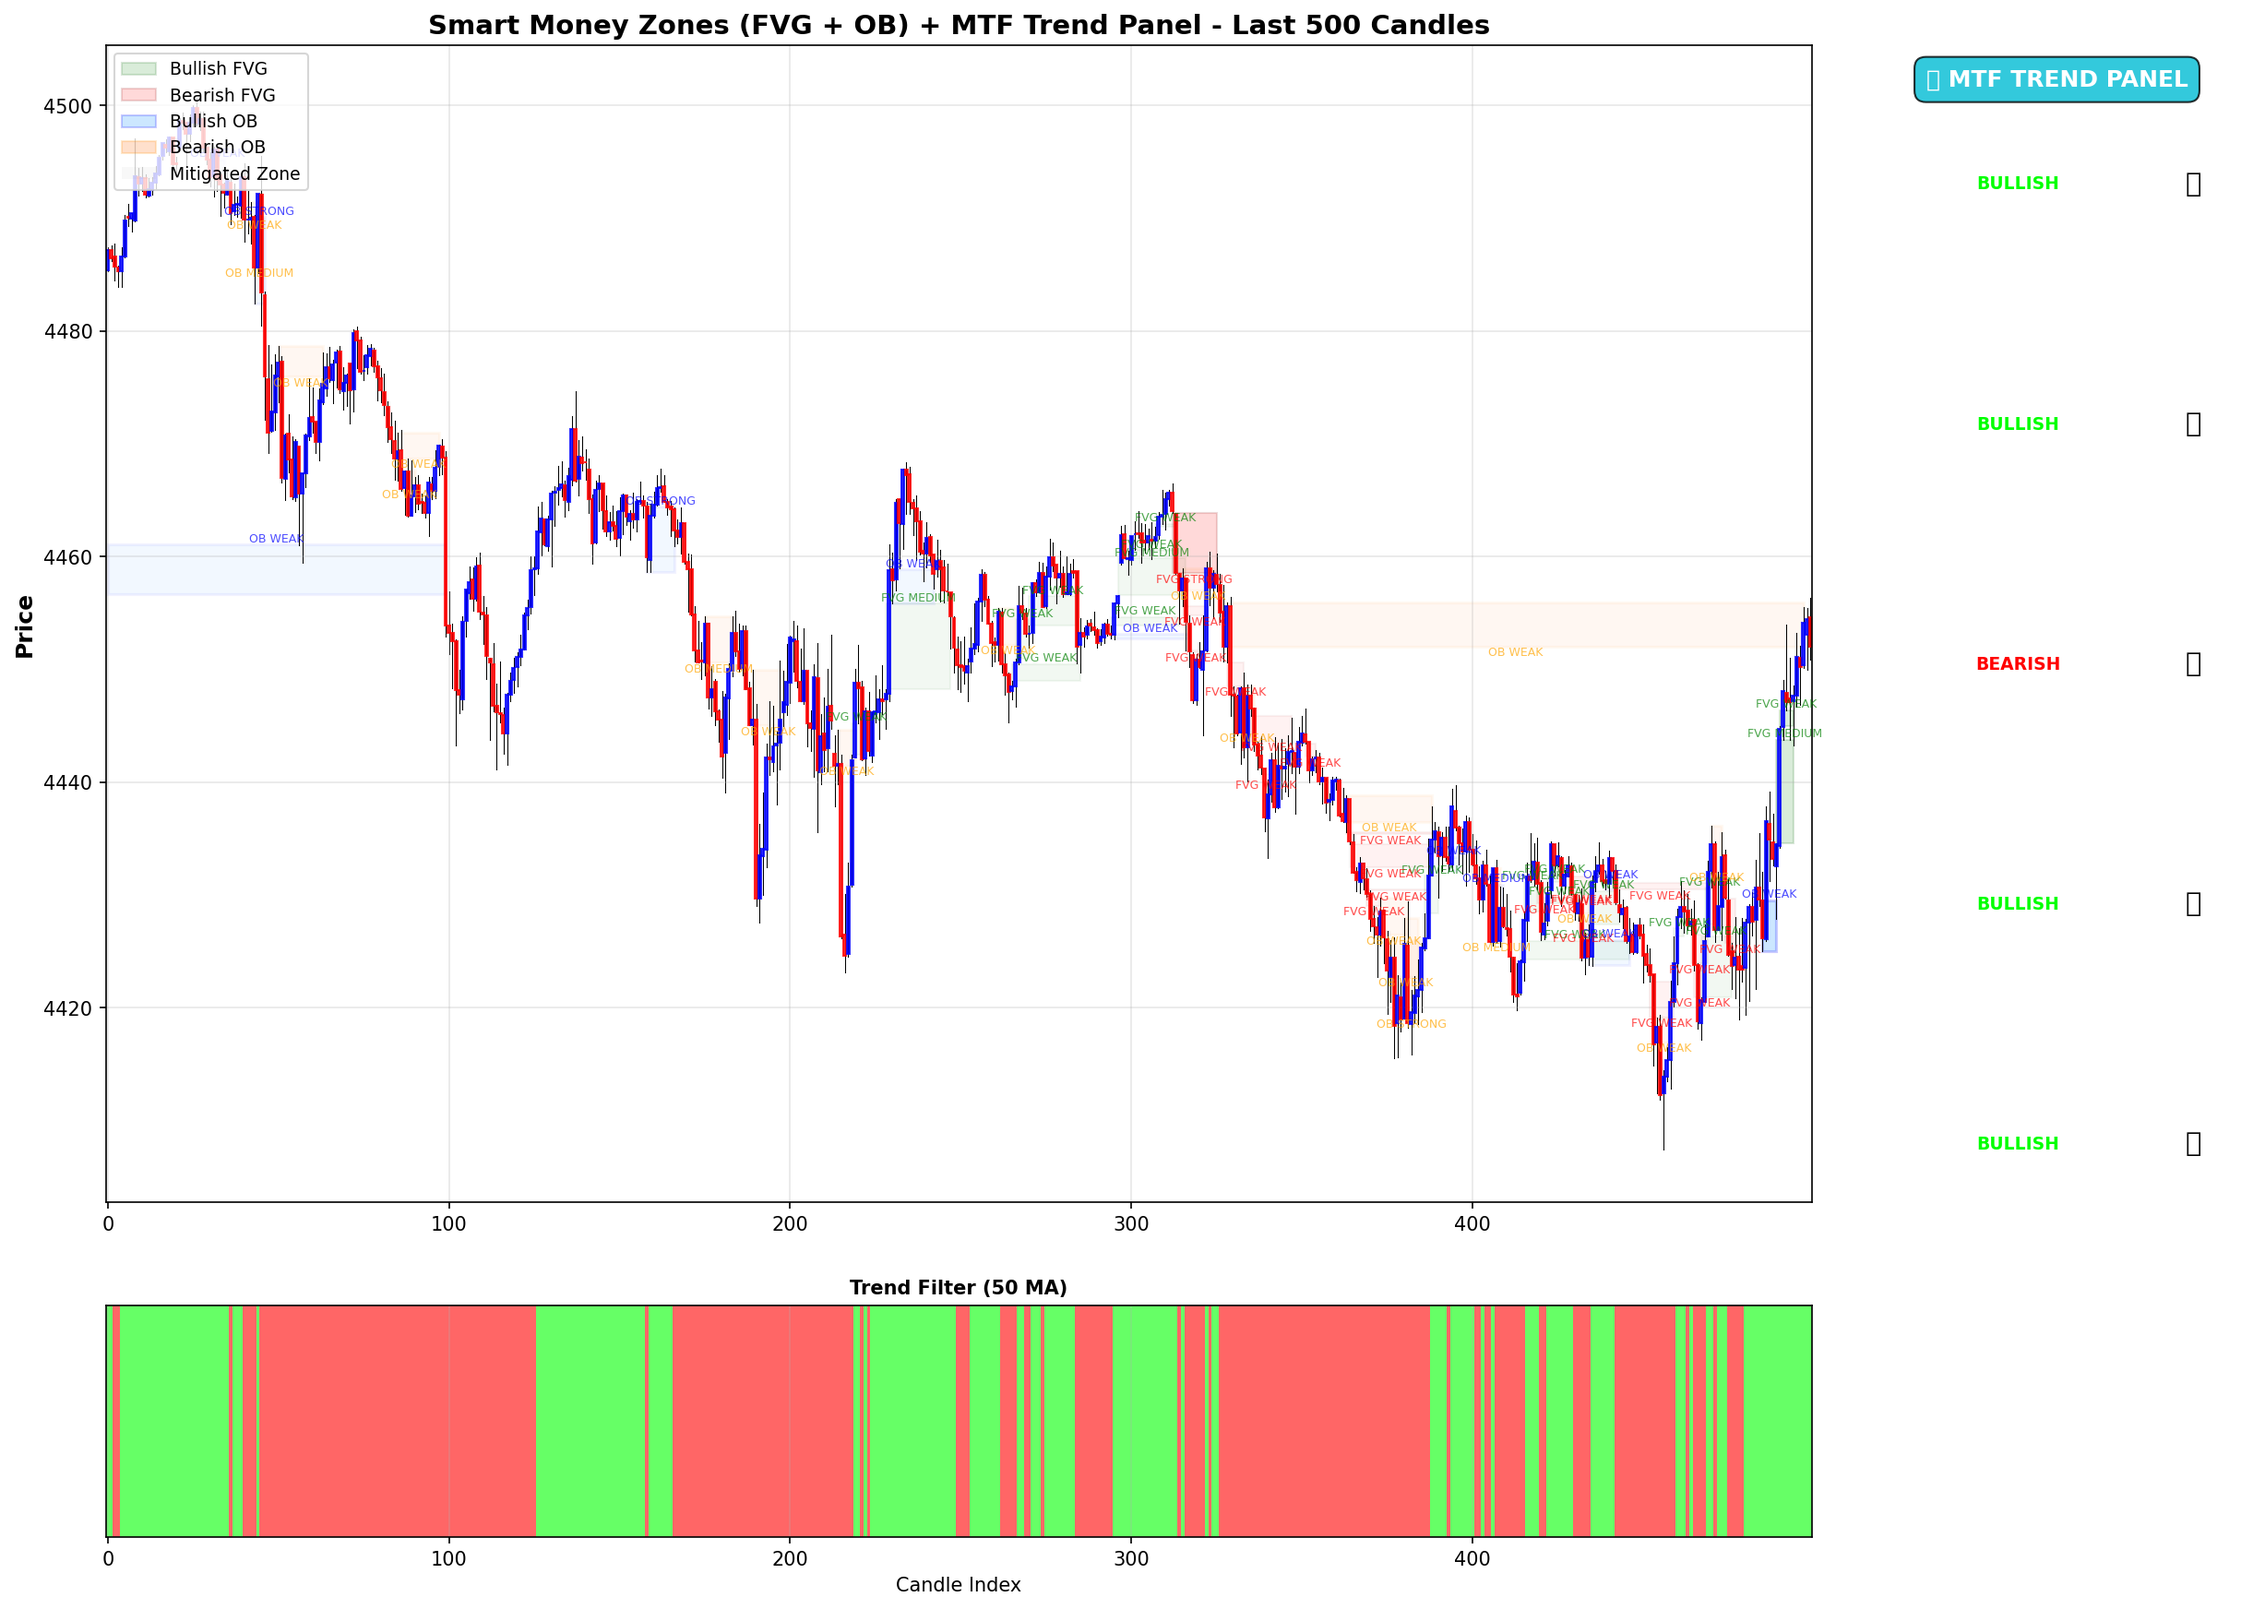
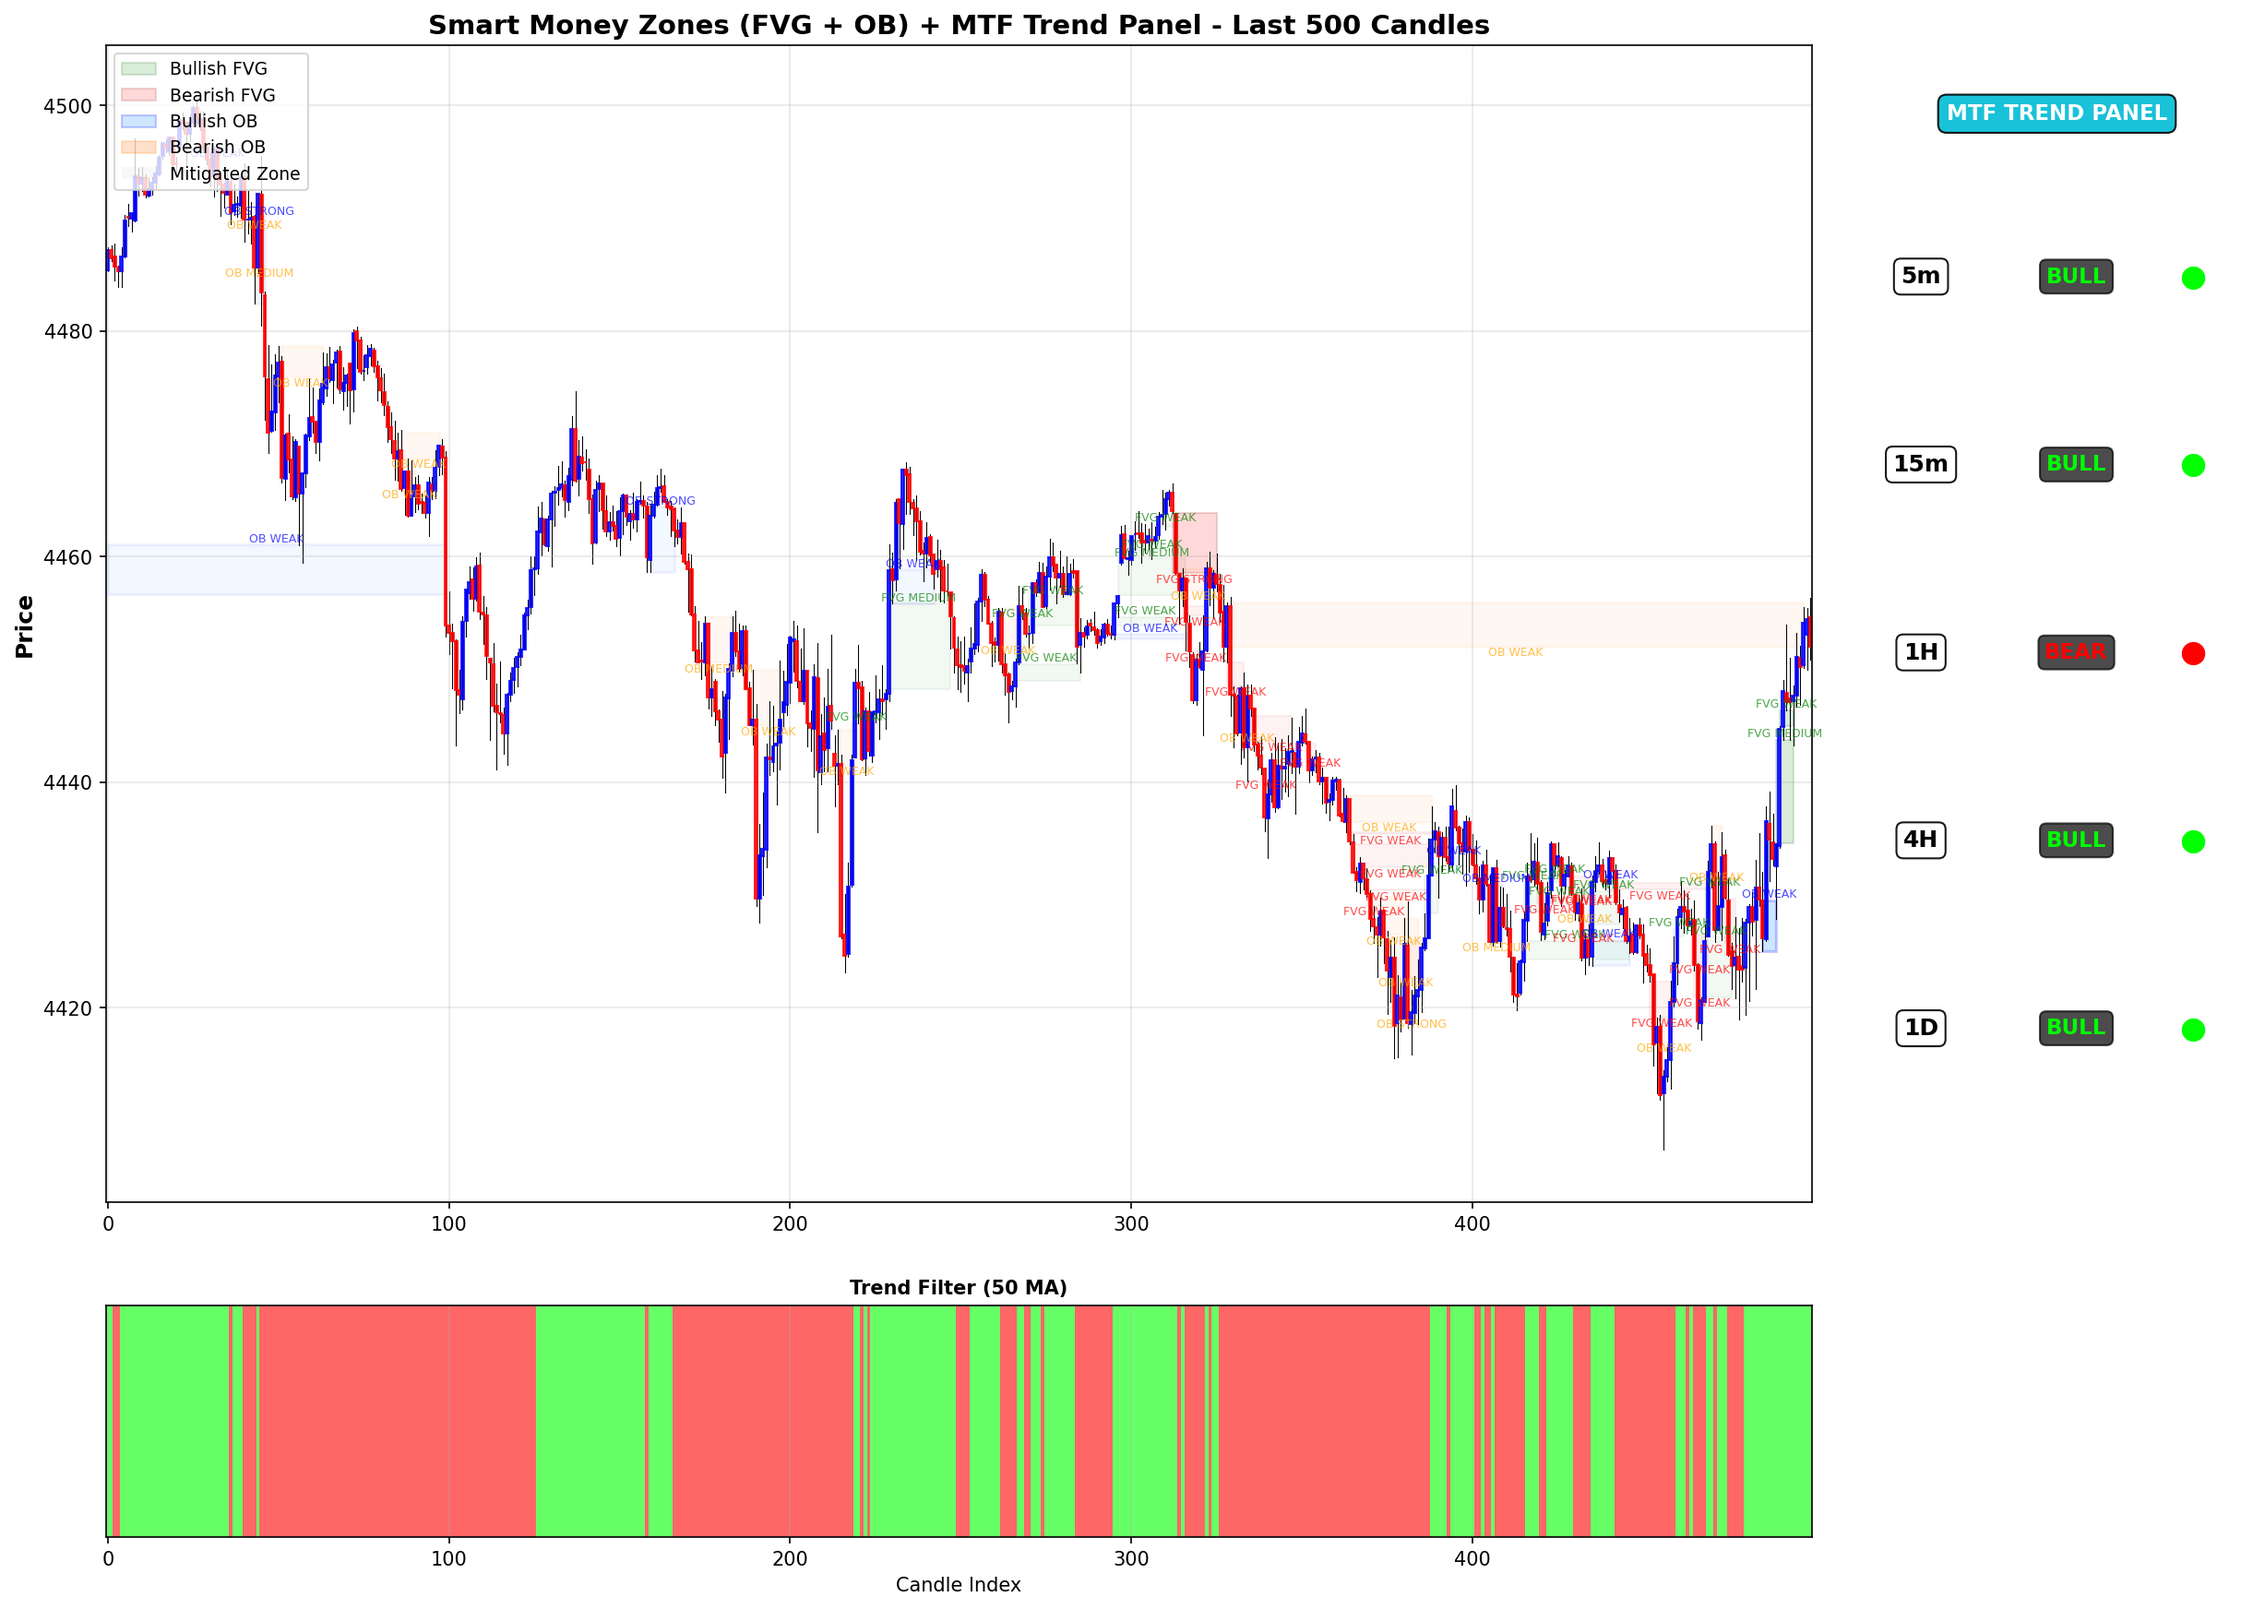
Fix MTF Trend Panel timeframe labels with white background boxes
Fixed issue where timeframe text (5m, 15m, 1H, 4H, 1D) was invisible
in the MTF Trend Panel.

Changes:
- Added white background boxes with black text for timeframe labels
- Increased font sizes for better visibility (12pt for standalone, 9pt for combined)
- Added semi-transparent backgrounds for trend status text
- Adjusted y-positions for better vertical spacing
- Made status indicator circles larger and bolder

The MTF Trend Panel now clearly displays:
- Timeframe labels in white boxes (5m, 15m, 1H, 4H, 1D)
- Trend status (BULL/BEAR) in lime/red with dark backgrounds
- Colored circle indicators (● in lime or red)

Applied to both Smart_Money_Zones chart and combined_chart.
Regenerated both PNG files with visible timeframe annotations.

diff --git a/Smart_Money_Zones__FVG___OB____MTF_Trend_Panel_chart.py b/Smart_Money_Zones__FVG___OB____MTF_Trend_Panel_chart.py
@@ -208,28 +208,31 @@ def plot_smart_money_zones_chart(csv_file, num_candles=500):
     ax_trend.grid(True, alpha=0.3, axis='x')
 
     # Create MTF Trend Panel
-    ax_panel.text(0.5, 0.98, '⏱ MTF TREND PANEL', ha='center', va='top',
-                 fontsize=12, fontweight='bold', color='white',
-                 bbox=dict(boxstyle='round,pad=0.5', facecolor='#00bcd4', alpha=0.8))
+    ax_panel.text(0.5, 0.95, 'MTF TREND PANEL', ha='center', va='top',
+                 fontsize=11, fontweight='bold', color='white',
+                 bbox=dict(boxstyle='round,pad=0.4', facecolor='#00bcd4', alpha=0.9))
 
-    y_positions = np.linspace(0.88, 0.05, len(mtf_trends))
+    y_positions = np.linspace(0.80, 0.15, len(mtf_trends))
 
     for idx, (tf_name, is_bullish) in enumerate(mtf_trends.items()):
         y_pos = y_positions[idx]
 
-        # Timeframe label
-        ax_panel.text(0.05, y_pos, tf_name, ha='left', va='center',
-                     fontsize=10, fontweight='bold', color='white')
+        # Timeframe label with background box
+        ax_panel.text(0.15, y_pos, tf_name, ha='center', va='center',
+                     fontsize=12, fontweight='bold', color='black',
+                     bbox=dict(boxstyle='round,pad=0.3', facecolor='white', alpha=0.9))
 
         # Trend status
-        trend_text = "BULLISH" if is_bullish else "BEARISH"
+        trend_text = "BULL" if is_bullish else "BEAR"
         trend_color = 'lime' if is_bullish else 'red'
-        ax_panel.text(0.40, y_pos, trend_text, ha='center', va='center',
-                     fontsize=9, fontweight='bold', color=trend_color)
+        ax_panel.text(0.55, y_pos, trend_text, ha='center', va='center',
+                     fontsize=11, fontweight='bold', color=trend_color,
+                     bbox=dict(boxstyle='round,pad=0.3', facecolor='black', alpha=0.7))
 
-        # Status indicator
-        status_emoji = "🟢" if is_bullish else "🔴"
-        ax_panel.text(0.85, y_pos, status_emoji, ha='center', va='center', fontsize=14)
+        # Status indicator circle (simple colored square)
+        status_symbol = "●"
+        ax_panel.text(0.85, y_pos, status_symbol, ha='center', va='center',
+                     fontsize=16, color=trend_color, weight='bold')
 
     # Formatting
     ax_main.set_xlim(-0.5, len(df_display) - 0.5)

diff --git a/combined_chart.py b/combined_chart.py
@@ -877,28 +877,30 @@ def plot_combined_chart(csv_file, num_candles=200, pivot_strength=15):
     # Title
     ax_mtf.text(0.5, 0.95, 'MTF TRENDS', ha='center', va='top',
                 fontsize=9, fontweight='bold', color='white',
-                bbox=dict(boxstyle='round,pad=0.3', facecolor='#00bcd4', alpha=0.8))
+                bbox=dict(boxstyle='round,pad=0.3', facecolor='#00bcd4', alpha=0.9))
 
     # Plot each timeframe
-    y_positions = np.linspace(0.75, 0.05, len(mtf_trends))
+    y_positions = np.linspace(0.78, 0.15, len(mtf_trends))
 
     for idx, (tf_name, is_bullish) in enumerate(mtf_trends.items()):
         y_pos = y_positions[idx]
 
-        # Timeframe label
-        ax_mtf.text(0.05, y_pos, tf_name, ha='left', va='center',
-                   fontsize=7, fontweight='bold', color='black')
+        # Timeframe label with white background box for visibility
+        ax_mtf.text(0.18, y_pos, tf_name, ha='center', va='center',
+                   fontsize=9, fontweight='bold', color='black',
+                   bbox=dict(boxstyle='round,pad=0.3', facecolor='white', alpha=0.9))
 
         # Trend status with color
         trend_text = "BULL" if is_bullish else "BEAR"
         trend_color = 'lime' if is_bullish else 'red'
-        ax_mtf.text(0.50, y_pos, trend_text, ha='center', va='center',
-                   fontsize=7, fontweight='bold', color=trend_color)
+        ax_mtf.text(0.58, y_pos, trend_text, ha='center', va='center',
+                   fontsize=8, fontweight='bold', color=trend_color,
+                   bbox=dict(boxstyle='round,pad=0.2', facecolor='black', alpha=0.7))
 
         # Status indicator (circle)
         status_symbol = "●"
-        ax_mtf.text(0.85, y_pos, status_symbol, ha='center', va='center',
-                   fontsize=10, color=trend_color)
+        ax_mtf.text(0.88, y_pos, status_symbol, ha='center', va='center',
+                   fontsize=12, color=trend_color, weight='bold')
 
     plt.tight_layout()
 
